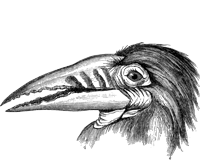
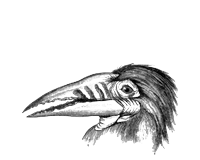
Cards: Kalyan's four engravings wired in (alexandrine/coly/emu/falcon), fitted to Colly's tile geometry
Claude-Session: https://claude.ai/code/session_01RB8AWK1ErGK7wywZP6ZetB

diff --git a/WORKLOG.md b/WORKLOG.md
@@ -58,7 +58,20 @@ the numbers choose. Guessing by eye produced four rounds of "not close".
 - Every "TODO:" is a fact only Kalyan can supply.
 - Open offers: inline the CSS at build time; Press Start 2P as an
   alternative code face; galleries / series grouping for posts.
-- Awaiting: which Gosse engraving goes on which of the four cards.
+- Cards DONE 2026-08-30: Kalyan picked emu, falcon, alexandrine, Coly.
+  Wired as Alexandrine=About, Coly=Journal, Emu=Archive, Falcon beak=Contact;
+  the eight external cards took the rest of the Gosse pool. No Colly artwork
+  is referenced on any real page now (his files stay in images/engravings/
+  as PLACEHOLDER-* for reference only).
+- Geometry lesson: Colly's ink sits in rows 59-155 of the 200x160 tile (a
+  ~69-97px band, bottom-anchored) because the card window is only 105px tall.
+  Fill the whole 160px and the card crops the creature's head off.
+- Idea parked (Kalyan, 2026-08-30): engraved PORTRAITS instead of animals --
+  Sherlock Holmes, Poirot, thinkers. His half-remembered reference is Ethan
+  Marcotte's original Responsive Web Design example, "The Baker Street
+  Inquirer" (alistapart.github.io/code-samples/responsive-web-design/), which
+  uses Sidney Paget's Holmes illustrations. Paget died 1908, so they are
+  public domain and the same pipeline would work.
 
 ## How to resume
     cd ~/Sites/kalyan-site && claude      # CLAUDE.md loads; read DESIGN.md, AGENTS.md, this file

diff --git a/images/engravings/CREDITS.md b/images/engravings/CREDITS.md
@@ -7,7 +7,15 @@ engravings, one subject per file, all **public domain**, from Wikimedia Commons.
 Chosen by measurement: each was scored against Colly's own engravings
 (coverage 9–23%, opaque-alpha 74–91%) and these ranked closest out of 233.
 Processed identically: greyscale, paper knocked to transparency with a hard
-alpha ramp so the line work stays opaque, trimmed, 200×160, bottom-anchored.
+alpha ramp so the line work stays opaque, trimmed, then fitted into the same
+geometry as Colly's — subject no more than 186×92, bottom-anchored in a
+200×160 tile, which is what his 105px card window expects (his own ink sits
+in rows 59–155).
+
+**In use on the real cards:** Alexandrine (About), Coly (Journal), Emu
+(Archive), Falcon beak (Contact) — Kalyan's choice, 2026-08-30. The eight
+external-reference cards use the rest, so no Colly artwork appears on any
+real page.
 
 | file | subject | source | licence |
 |---|---|---|---|
